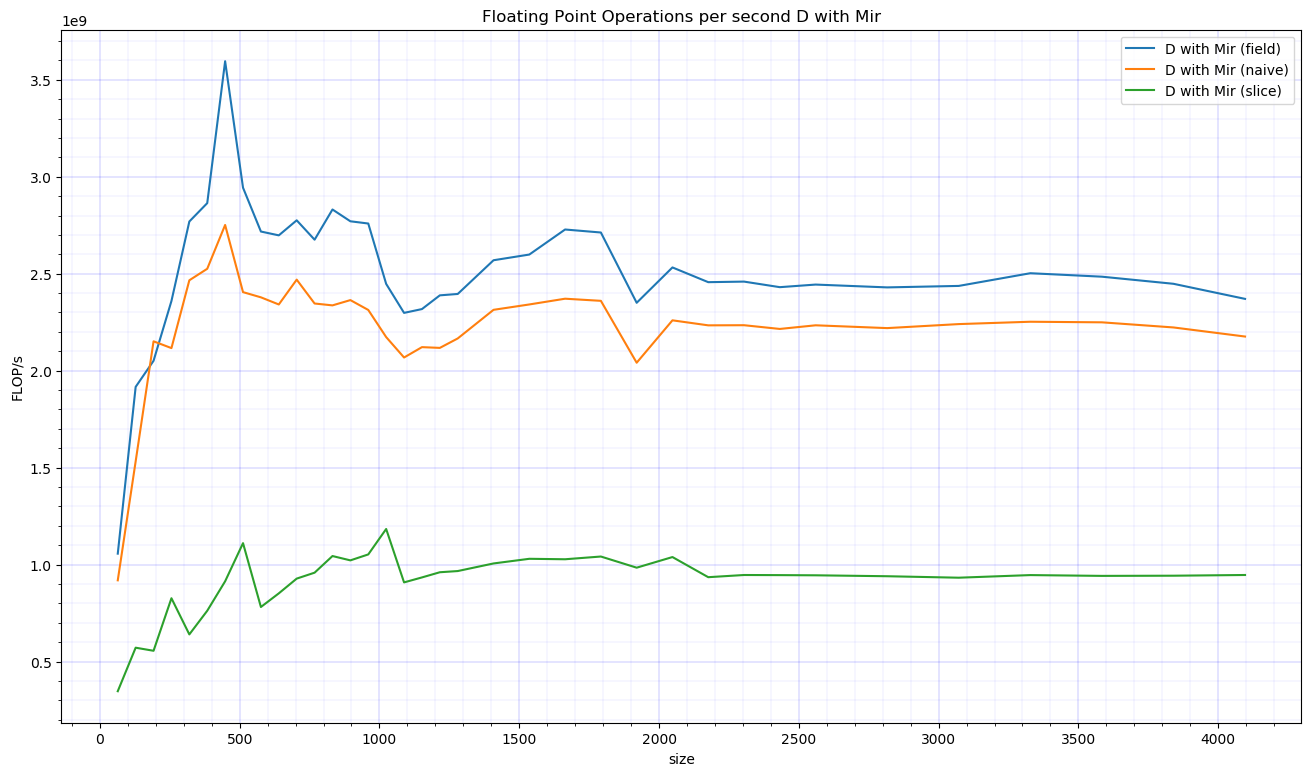
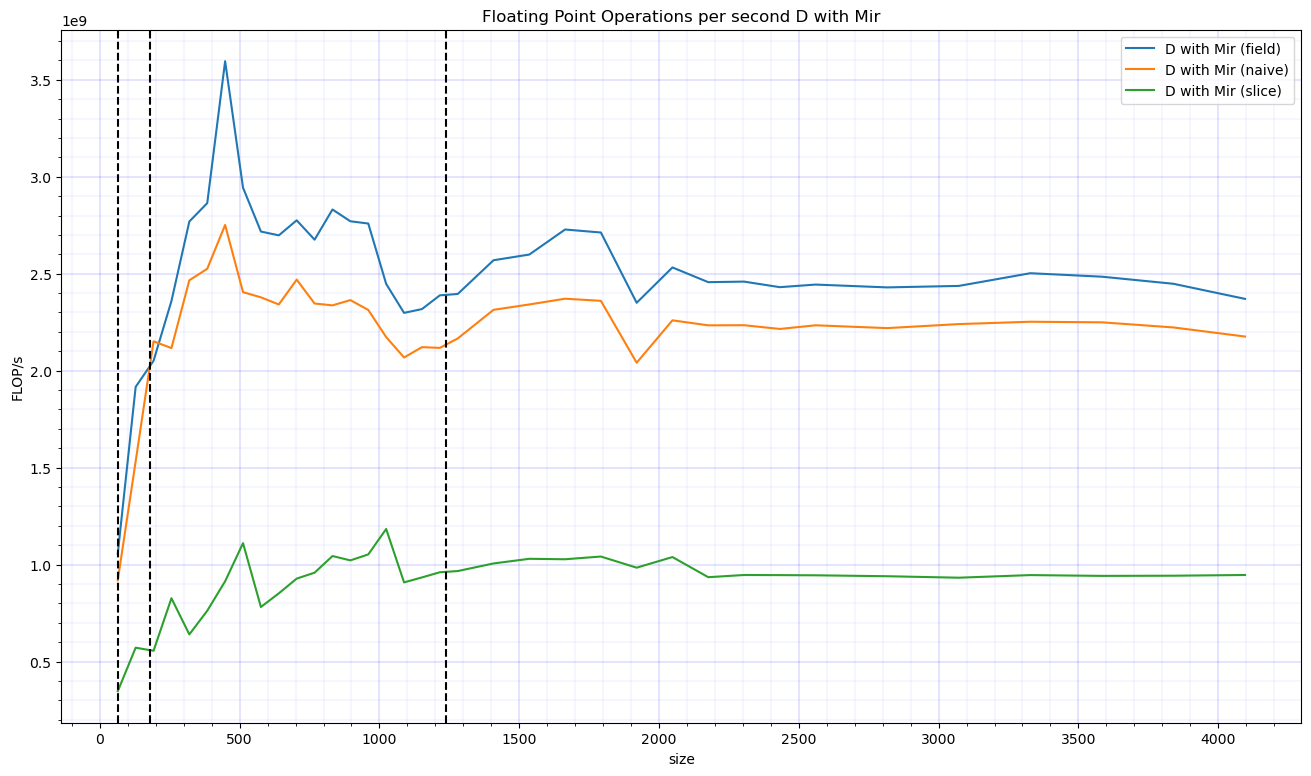
added some lines for caches and membandwidth to the plots

diff --git a/scripts/data.py b/scripts/data.py
@@ -69,12 +69,32 @@ def time(df, label):
     plt.ylabel('time in s')
 
 
+def plot_cache_lines(fig):
+    l1 = 32e3
+    l2 = 256e3
+    l3 = 12288e3
+
+    def cache2size(x):
+        return np.sqrt(x / 8)
+
+    fig.axvline(cache2size(l1), color='black', ls='--')
+    fig.axvline(cache2size(l2), color='black', ls='--')
+    fig.axvline(cache2size(l3), color='black', ls='--')
+
+
+def plot_membandwidth(fig):
+    mem_band = 22945.6 * 1e6  # convert from MB/s to B/s
+    fig.axhline(mem_band / 8)
+
+
 def subplots(frames, base_path, column):
     color = cycle(mcolor.TABLEAU_COLORS.keys())
     plt.clf()
+
     fig, axes = plt.subplots((len(frames) + 1) // 2,
                              2,
                              figsize=(12, 15))
+
     overflow = len(frames) < len(axes.flat)
     if overflow:
         axes.flat[3].axis('off')
@@ -100,9 +120,26 @@ def subplots(frames, base_path, column):
         axe.set(ylabel=column)
         axe.minorticks_on()
         axe.set_title(name)
+        plot_cache_lines(axe)
 
     fig.tight_layout()
     fig.savefig(f'{base_path}_{column}_subplots.png', bbox_inches='tight')
+
+
+def plot(frames, func, base_path, title):
+    plt.clf()
+    if func.__name__ == 'flops' and len(frames) == 11:
+        plot_membandwidth(plt)
+    plt.title(title)
+    for name, df in frames:
+        func(df, name)
+    plt.legend()
+    plt.minorticks_on()
+    plt.grid(color='b', linestyle='-', linewidth=0.3, alpha=0.5, which='major')
+    plt.grid(color='b', linestyle='-', linewidth=0.1, alpha=0.5, which='minor')
+    plot_cache_lines(plt)
+
+    plt.savefig(f'{base_path}_{func.__name__}.png', bbox_inches='tight')
 
 
 def extract_name(path):
@@ -116,19 +153,6 @@ def extract_name(path):
 
 def extract_date_host(path):
     return ''.join(os.path.basename(path).split('_')[1:3])
-
-
-def plot(frames, func, base_path, title):
-    plt.clf()
-    plt.title(title)
-    for name, df in frames:
-        func(df, name)
-    plt.legend()
-    plt.minorticks_on()
-    plt.grid(color='b', linestyle='-', linewidth=0.3, alpha=0.5, which='major')
-    plt.grid(color='b', linestyle='-', linewidth=0.1, alpha=0.5, which='minor')
-
-    plt.savefig(f'{base_path}_{func.__name__}.png', bbox_inches='tight')
 
 
 def main():
